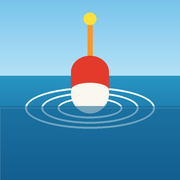
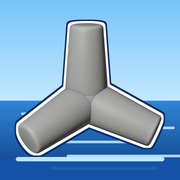
主畫面圖示換成消波塊

diff --git a/index.html b/index.html
@@ -11,9 +11,9 @@
 <meta name="mobile-web-app-capable" content="yes">
 <meta name="apple-mobile-web-app-status-bar-style" content="black-translucent">
 <meta name="apple-mobile-web-app-title" content="釣魚人生">
-<link rel="manifest" href="manifest.webmanifest">
-<link rel="apple-touch-icon" href="apple-touch-icon.png">
-<link rel="icon" type="image/png" sizes="192x192" href="icon-192.png">
+<link rel="manifest" href="manifest.webmanifest?v=2">
+<link rel="apple-touch-icon" href="apple-touch-icon.png?v=2">
+<link rel="icon" type="image/png" sizes="192x192" href="icon-192.png?v=2">
 <style>
   /* 遊戲畫布填滿整個視窗；載入條疊在正中央（藍色，配合遊戲介面） */
   :root { --bg:#0e2747; --panel:#163a66; --edge:#ffffff; --fg:#ffffff; --muted:#cfe6ff; --bar:#5cc8ff; --danger:#ff8d7a; color-scheme: dark; }
